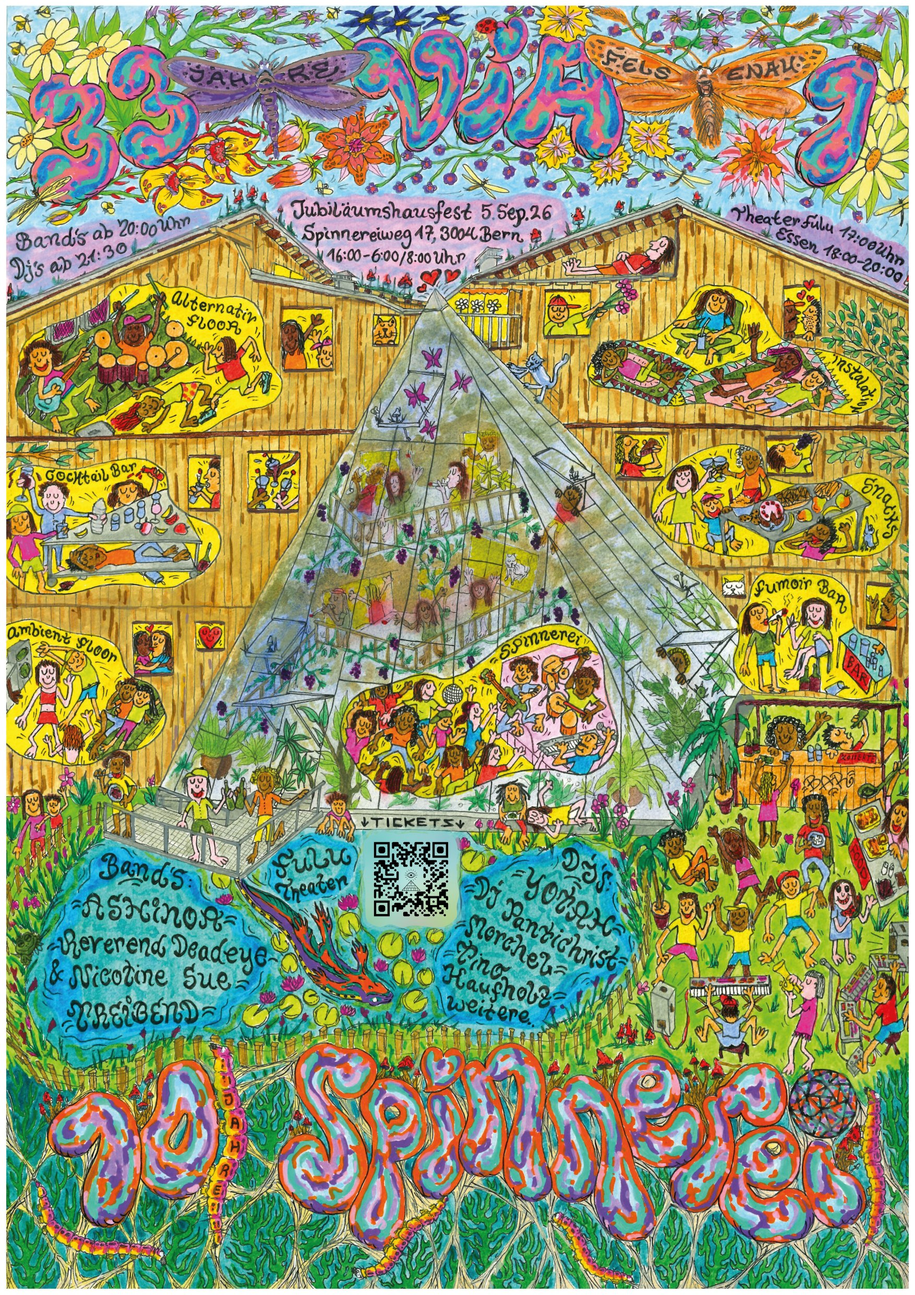
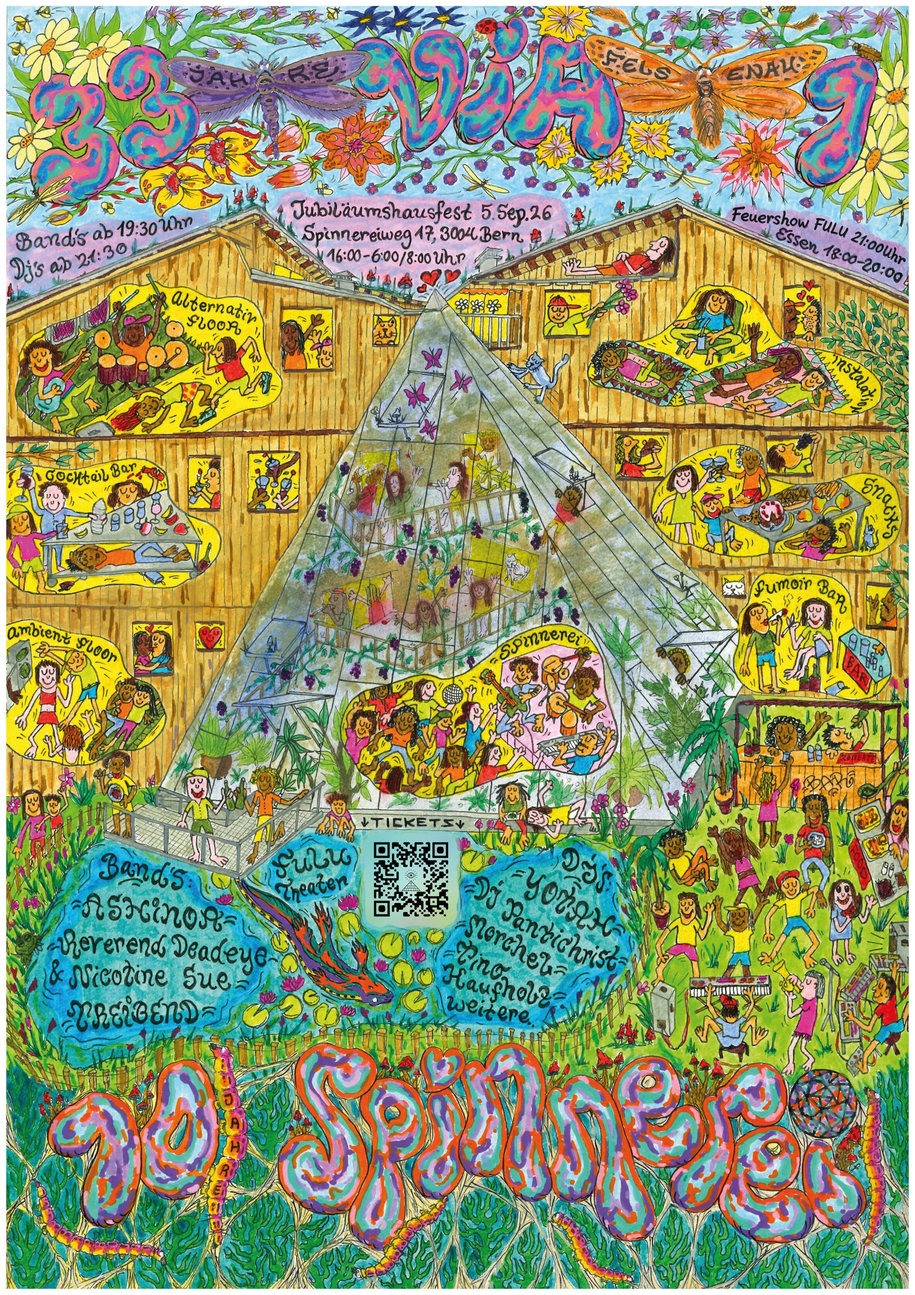
Neues Plakat mit Feuershow uebernehmen
Die neue Version (A3, 300 dpi, QR bereits einmontiert - decodiert
geprueft auf die Fest-Seite) ersetzt alle Web-Ableger: Vorschau 480px,
Grossansicht 1200px und das Download-JPEG in A3@150dpi. Quelle liegt
neu als plakat/Hausfest_Plakat_Feuershow.jpg im Plakat-Ordner, README
entsprechend nachgefuehrt.

Claude-Session: https://claude.ai/code/session_01SPautspD7WMWyEQmPBVw57

diff --git a/public/sw.js b/public/sw.js
@@ -11,7 +11,7 @@
 //   * Statische Dateien (JS, CSS, Bilder, Fonts) -> zuerst Cache. Deren Namen
 //     enthalten einen Hash, sie ändern sich also nie unter derselben URL.
 
-const CACHE_NAME = "hausfest-via-v44";
+const CACHE_NAME = "hausfest-via-v45";
 const SHELL = ["/", "/en", "/manifest.webmanifest"];
 
 self.addEventListener("install", (event) => {

diff --git a/plakat/README.md b/plakat/README.md
@@ -1,12 +1,19 @@
 # Plakat
 
-Das gezeichnete A3-Plakat, mit QR-Code zum Ticketshop.
+Das gezeichnete A3-Plakat, mit QR-Code zur Fest-Seite.
 
 | Datei | wofür |
 | --- | --- |
-| `ViaFest_A3.pdf` | die gezeichnete Vorlage mit dem leeren weissen Feld |
+| `Hausfest_Plakat_Feuershow.jpg` | **die aktuelle Version** (A3, 300 dpi, QR schon drin) — Quelle der Web-Bilder |
+| `ViaFest_A3.pdf` | ältere gezeichnete Vorlage mit dem leeren weissen Feld |
 | `qr_seite.svg` / `qr_seite.pdf` | der QR allein, 27 mm, als Vektor |
-| `ViaFest_A3_mit_QR.pdf` | das fertige Plakat — **das in den Druck geben** |
+| `ViaFest_A3_mit_QR.pdf` | ältere Druckfassung (aus der Vorlage + QR montiert) |
+
+Die aktuelle Version kam als fertiger Scan mit einmontiertem QR — der
+Code ist ab dem 300-dpi-Bild geprüft und decodiert sauber auf
+`https://hausfest-via.al-daellen.ch`. Die Web-Ableger
+(`public/art/plakat_vorschau.webp` 480 px, `plakat_gross.webp` 1200 px,
+`plakat_download.jpg` A3 bei 150 dpi) sind direkt daraus verkleinert.
 
 Der QR steckt im Plakat als Vektor, nicht als Bild — er bleibt also auch
 in A3 gestochen scharf. Sein Grund ist keine weisse
